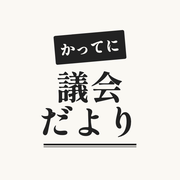
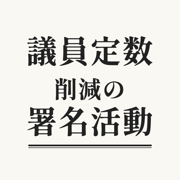
署名期間中はサイト名を仮の「議員定数削減の署名活動」に（ロゴ・タイトル・アイコン・OGP画像）

Changed region(s): [[0.1389, 0.1667, 0.8611, 0.8333]]

diff --git a/src/styles/global.css b/src/styles/global.css
@@ -325,6 +325,8 @@ html.big .hbtn.js-big { background: var(--sumi); color: #fff; }
 .ikenfold[open] > summary::after { content: "閉じる －"; }
 .ikenfold .ikenbody { padding-top: 0; }
 .deck { font-family: var(--mincho); font-weight: 700; font-size: calc(var(--base) * 1.05); color: var(--usuzumi); margin: -2px 0 12px; }
+.logo-main.kari { font-size: clamp(18px, 5.3vw, 24px); }
+@media (min-width: 700px) { .logo-main.kari { font-size: 34px; } }
 .logo-h1 { margin: 0; font-size: inherit; font-weight: inherit; }
 .fukudai .nw { display: inline-block; }
 

diff --git a/src/config/site.ts b/src/config/site.ts
@@ -1,6 +1,6 @@
 // サイト全体の設定。名前とURLはここを直せば全ページに反映される
 export const SITE = {
-  name: 'かってに議会だより',
+  name: '議員定数削減の署名活動',
   subtitle: '選挙の日じゃなくても、町は動かせる。',
   place: '鳥取県大山町',
   description:
